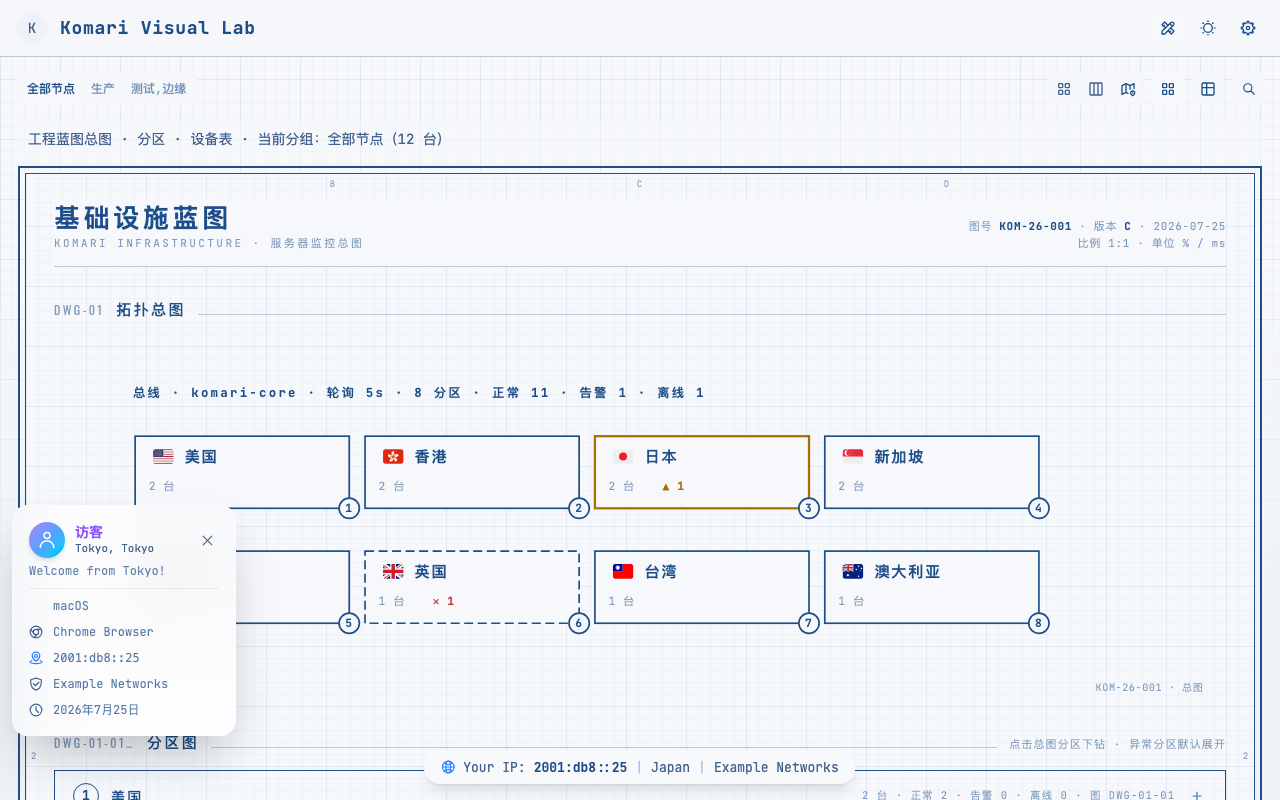
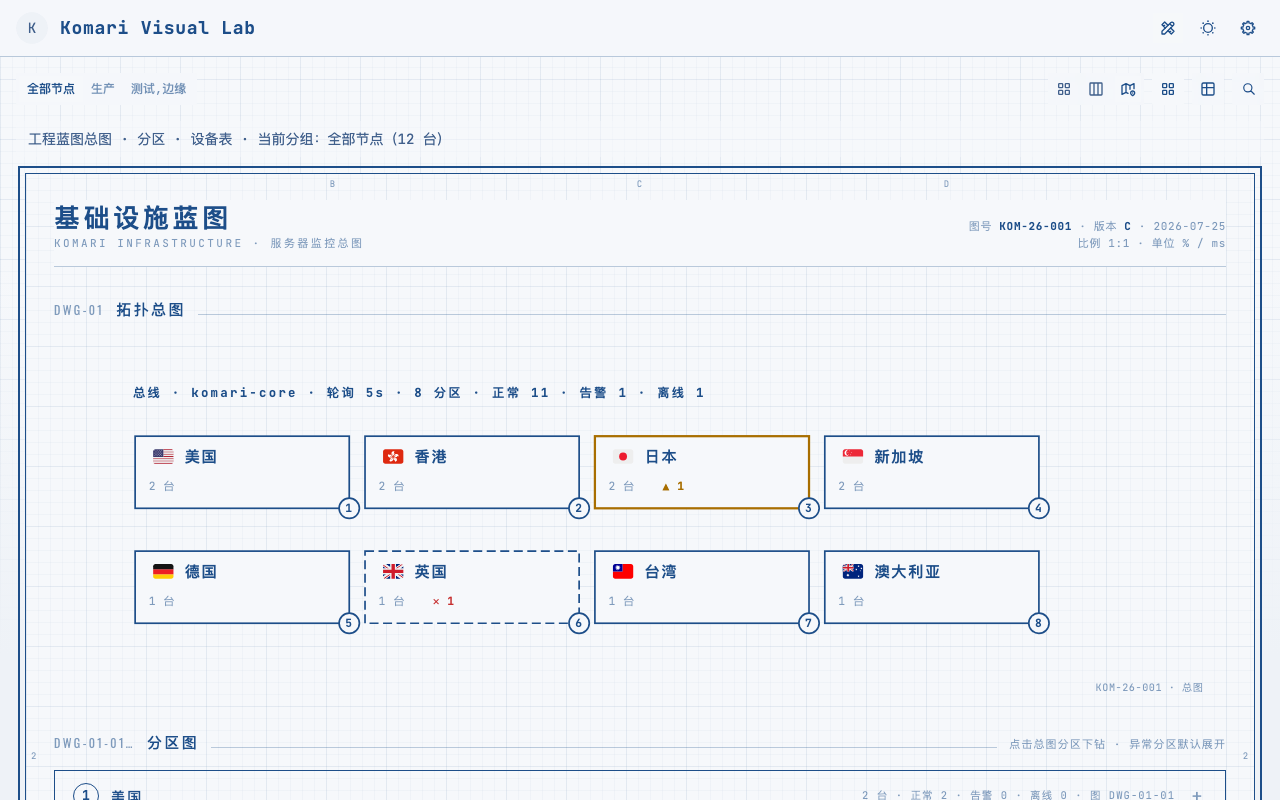
feat: 预览图去掉访客标签重生成 + Header 毛玻璃透明度 55%→45%

Changed region(s): [[0.0, 0.6562, 0.1875, 0.9688], [0.3438, 0.9375, 0.6562, 0.9688], [0.125, 0.625, 0.1562, 0.6562]]

diff --git a/src/styles/main.css b/src/styles/main.css
@@ -372,7 +372,7 @@ header {
 
 /* ===== Header 例外：恢复半透明毛玻璃（桌面 + 移动；-webkit- 兼容 iOS） ===== */
 .glass-header {
-  background-color: color-mix(in srgb, var(--card) 55%, transparent) !important;
+  background-color: color-mix(in srgb, var(--card) 45%, transparent) !important;
   backdrop-filter: blur(16px) saturate(150%) !important;
   -webkit-backdrop-filter: blur(16px) saturate(150%) !important;
 }

diff --git a/README.md b/README.md
@@ -35,7 +35,7 @@
 
 | 项目     | 说明                                                                    |
 | :------- | :---------------------------------------------------------------------- |
-| 当前版本 | **v0.0.21**                                                             |
+| 当前版本 | **v0.0.22**                                                             |
 | 主题定位 | Komari Monitor 可导入 zip 主题，不是普通 Web App 部署包                 |
 | 视觉风格 | 工程图纸（白图 / 晒图蓝）、等宽字体、浅色 / 深色 / 北京时间自动日夜模式 |
 | 数据能力 | Metric Store 优先，旧接口自动 fallback，兼容 Komari 1.2.x               |
